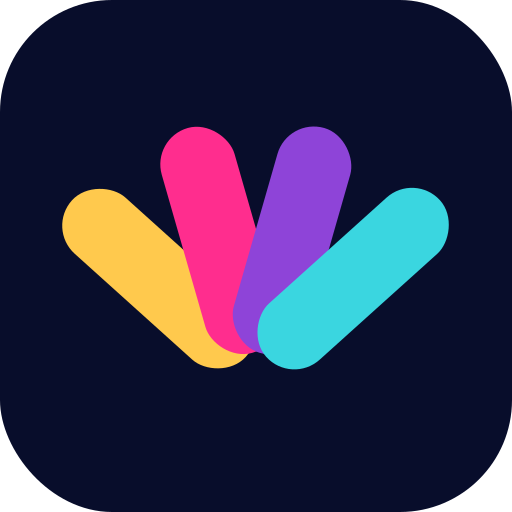
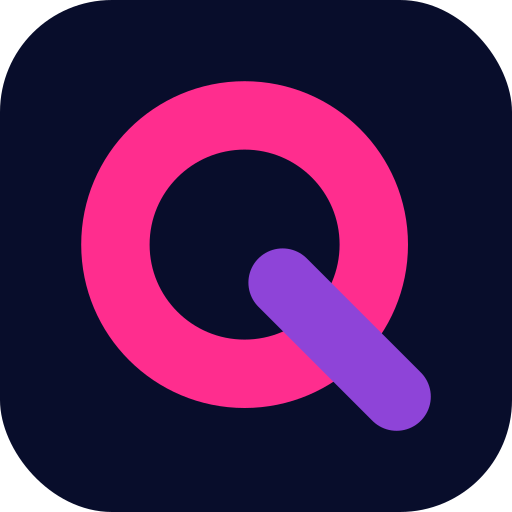
Bytt merket fra Vifta til Q-en, med opptegning og fargesyklus
Q-en var alternativ 01 i logorunden: ring paa r=17 med en hale som
starter inne i hullet og bryter ut gjennom streken. Det er kryssingen
som gjoer den til en Q og ikke et forstoerrelsesglass, saa halen kan
ikke loesrives fra ringen. Ringen er rotert -90 grader om sitt eget
sentrum - visuelt likegyldig paa en sirkel, men det flytter
startpunktet for opptegningen til toppen.

Animasjonen er to lag som overlapper:

1. Opptegning ved innlasting. Ringen tegner seg fra toppen paa 0,95 s
   via stroke-dashoffset 107 -> 0, og halen slaar ut paa 0,4 s med
   0,85 s forsinkelse og lett oversving.
2. Fargesyklus som ikke stopper. Ringen vandrer gjennom --pink-500,
   --violet-500, --cyan-400 og --amber-400 paa 16 s. Halen kjoerer
   samme syklus med -4s delay, et kvart hjul forskjoevet, saa ringen
   og halen aldri viser samme farge.

De to kan kjoere samtidig paa samme element fordi de roerer ulike
egenskaper: opptegningen stroke-dashoffset, fargesyklusen stroke.
Fargesyklusen starter og slutter paa rosa, og halens paa lilla, som er
nettopp fargene opptegningen bruker, saa overgangen er soemloes.

stroke-dasharray er 107 mot en faktisk omkrets paa 106,81 - litt over,
ellers aapner det seg en haarfin glipe der streken moeter seg selv.

prefers-reduced-motion og <Logo still /> slaar av begge lagene og
setter merket ferdig tegnet i rosa og lilla. Hover skalerer bare, uten
rotasjon - det kledde vifta, men ikke en bokstavform.
[…]

diff --git a/src/styles/base.css b/src/styles/base.css
@@ -131,64 +131,75 @@ a {
   white-space: nowrap;
 }
 
-/* -- Merket: fire blad som vifter seg ut fra ett punkt --------------------
-   Ett blad per temafarge. Bladene farges fra tokens, så merket følger
-   paletten. Bevegelsen er to lag: en utvifting ved innlasting og en langsom
-   pust som aldri stopper. Begge slås av under prefers-reduced-motion. */
+/* -- Merket: Q-en, ringen og halen som krysser den ------------------------
+   Bevegelsen er to lag som overlapper. Ved innlasting tegner ringen seg selv
+   fra toppen med stroke-dashoffset, og halen slaar ut etterpaa med et lite
+   oversving. Parallelt gaar en fargesyklus som aldri stopper: ringen vandrer
+   gjennom de fire temafargene paa 16 s, halen fire sekunder forskjoevet, saa
+   de to aldri viser samme farge. Fargesyklusen starter paa rosa og lilla,
+   som er nettopp fargene opptegningen bruker, saa overgangen er soemloes.
+   Draw-animasjonen roerer stroke-dashoffset, fargesyklusen roerer stroke -
+   ulike egenskaper, saa de kan kjoere samtidig paa samme element. */
 .tq-mark {
   flex: none;
   overflow: visible;
   transition: transform var(--dur) var(--ease);
 }
 
-.tq-blade {
-  transform-box: view-box;
-  transform-origin: 32px 50px;
+.tq-ring {
+  stroke: var(--pink-500);
+  stroke-dasharray: 107;
 }
 
-.tq-blade rect {
-  transform-box: view-box;
-  transform-origin: 32px 50px;
+.tq-tail {
+  stroke: var(--violet-500);
+  stroke-dasharray: 21.3;
 }
 
-.tq-blade--1 rect { fill: var(--amber-400); }
-.tq-blade--2 rect { fill: var(--pink-500); }
-.tq-blade--3 rect { fill: var(--violet-500); }
-.tq-blade--4 rect { fill: var(--cyan-400); }
+.tq-mark:not(.tq-mark--still) .tq-ring {
+  animation:
+    tq-draw 0.95s cubic-bezier(0.65, 0, 0.35, 1) 0.1s both,
+    tq-tema 16s linear infinite;
+}
 
-.tq-mark:not(.tq-mark--still) .tq-blade--1 { animation: tq-fan-1 0.8s cubic-bezier(0.34, 1.56, 0.64, 1) both; }
-.tq-mark:not(.tq-mark--still) .tq-blade--2 { animation: tq-fan-2 0.8s cubic-bezier(0.34, 1.56, 0.64, 1) 0.06s both; }
-.tq-mark:not(.tq-mark--still) .tq-blade--3 { animation: tq-fan-3 0.8s cubic-bezier(0.34, 1.56, 0.64, 1) 0.12s both; }
-.tq-mark:not(.tq-mark--still) .tq-blade--4 { animation: tq-fan-4 0.8s cubic-bezier(0.34, 1.56, 0.64, 1) 0.18s both; }
+.tq-mark:not(.tq-mark--still) .tq-tail {
+  animation:
+    tq-draw-tail 0.4s cubic-bezier(0.34, 1.56, 0.64, 1) 0.85s both,
+    tq-tema 16s linear -4s infinite;
+}
 
-.tq-mark:not(.tq-mark--still) .tq-blade--1 rect { animation: tq-sway 4.6s ease-in-out 1s infinite alternate; }
-.tq-mark:not(.tq-mark--still) .tq-blade--2 rect { animation: tq-sway 5s ease-in-out 1.15s infinite alternate; }
-.tq-mark:not(.tq-mark--still) .tq-blade--3 rect { animation: tq-sway 4.8s ease-in-out 1.3s infinite alternate; }
-.tq-mark:not(.tq-mark--still) .tq-blade--4 rect { animation: tq-sway 5.2s ease-in-out 1.45s infinite alternate; }
+@keyframes tq-draw {
+  from { stroke-dashoffset: 107; }
+  to { stroke-dashoffset: 0; }
+}
 
-/* Uten animasjon står bladene i endeposisjon. */
-.tq-mark--still .tq-blade--1 { transform: rotate(-48deg); }
-.tq-mark--still .tq-blade--2 { transform: rotate(-16deg); }
-.tq-mark--still .tq-blade--3 { transform: rotate(16deg); }
-.tq-mark--still .tq-blade--4 { transform: rotate(48deg); }
+@keyframes tq-draw-tail {
+  from { stroke-dashoffset: 21.3; }
+  to { stroke-dashoffset: 0; }
+}
 
-@keyframes tq-fan-1 { from { transform: rotate(2deg); opacity: 0; } to { transform: rotate(-48deg); opacity: 1; } }
-@keyframes tq-fan-2 { from { transform: rotate(2deg); opacity: 0; } to { transform: rotate(-16deg); opacity: 1; } }
-@keyframes tq-fan-3 { from { transform: rotate(2deg); opacity: 0; } to { transform: rotate(16deg); opacity: 1; } }
-@keyframes tq-fan-4 { from { transform: rotate(2deg); opacity: 0; } to { transform: rotate(48deg); opacity: 1; } }
-@keyframes tq-sway { from { transform: rotate(-3.5deg); } to { transform: rotate(3.5deg); } }
+@keyframes tq-tema {
+  0% { stroke: var(--pink-500); }
+  25% { stroke: var(--violet-500); }
+  50% { stroke: var(--cyan-400); }
+  75% { stroke: var(--amber-400); }
+  100% { stroke: var(--pink-500); }
+}
+
+/* Uten animasjon staar merket ferdig tegnet i rosa og lilla. */
+.tq-mark--still .tq-ring,
+.tq-mark--still .tq-tail {
+  stroke-dashoffset: 0;
+}
 
 @media (prefers-reduced-motion: reduce) {
-  .tq-mark .tq-blade,
-  .tq-mark .tq-blade rect {
+  .tq-mark .tq-ring,
+  .tq-mark .tq-tail {
     animation: none !important;
+    stroke-dashoffset: 0;
   }
-
-  .tq-mark .tq-blade--1 { transform: rotate(-48deg); }
-  .tq-mark .tq-blade--2 { transform: rotate(-16deg); }
-  .tq-mark .tq-blade--3 { transform: rotate(16deg); }
-  .tq-mark .tq-blade--4 { transform: rotate(48deg); }
 }
+
 
 /* -- Ordmerket: Theme lett, Quiz tungt, satt inntil hverandre ------------- */
 .tq-word {
@@ -211,7 +222,7 @@ a {
 
 .brand:hover .tq-mark,
 .brand:focus-visible .tq-mark {
-  transform: scale(1.09) rotate(-5deg);
+  transform: scale(1.08);
 }
 
 .brand:hover .tq-word__a {

diff --git a/src/components/Logo.tsx b/src/components/Logo.tsx
@@ -1,14 +1,16 @@
 /**
- * Theme Quiz-merket: fire blad som vifter seg ut fra ett punkt, ett per temafarge.
- * Bladene henter farge fra designtokens, så merket følger paletten automatisk.
- * Animasjonen ligger i base.css og slås av under prefers-reduced-motion.
+ * Theme Quiz-merket: Q-en — ringen og halen som krysser den.
+ * Ved innlasting tegner ringen seg selv fra toppen, så slår halen ut. Deretter
+ * vandrer begge gjennom de fire temafargene, halen fire sekunder forskjøvet, så
+ * de aldri viser samme farge samtidig.
+ * Fargene og animasjonen ligger i base.css og slås av under prefers-reduced-motion.
  */
 type LogoProps = {
   /** Kantlengde på merket i piksler. */
   size?: number
   /** Tegn ordmerket «ThemeQuiz» ved siden av merket. */
   withWordmark?: boolean
-  /** Slå av vifte- og pustebevegelsen (f.eks. i en tett liste). */
+  /** Slå av opptegning og fargesyklus (f.eks. i en tett liste). */
   still?: boolean
 }
 
@@ -22,18 +24,23 @@ export default function Logo({ size = 30, withWordmark = false, still = false }:
       aria-hidden="true"
       focusable="false"
     >
-      <g className="tq-blade tq-blade--1">
-        <rect x="26.5" y="14" width="11" height="34" rx="5.5" />
-      </g>
-      <g className="tq-blade tq-blade--2">
-        <rect x="26.5" y="14" width="11" height="34" rx="5.5" />
-      </g>
-      <g className="tq-blade tq-blade--3">
-        <rect x="26.5" y="14" width="11" height="34" rx="5.5" />
-      </g>
-      <g className="tq-blade tq-blade--4">
-        <rect x="26.5" y="14" width="11" height="34" rx="5.5" />
-      </g>
+      {/* Rotert -90° slik at opptegningen starter på toppen av ringen. */}
+      <circle
+        className="tq-ring"
+        cx="29"
+        cy="27"
+        r="17"
+        fill="none"
+        strokeWidth="9"
+        transform="rotate(-90 29 27)"
+      />
+      <path
+        className="tq-tail"
+        d="M34 32 L49 47"
+        fill="none"
+        strokeWidth="9"
+        strokeLinecap="round"
+      />
     </svg>
   )
 
